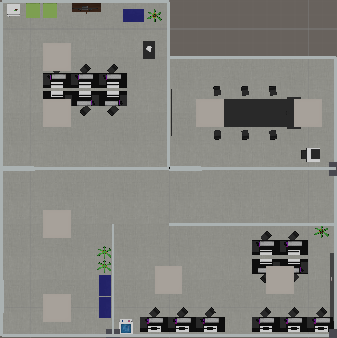
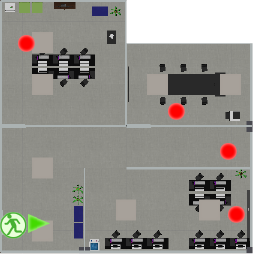
Update minimap preview sprites
~3-3스테이지까지 미니맵 프리뷰 교체 -> 부상자, 출구 위치 표시된 것으로 바꿈

diff --git a/Assets/Scripts/GameManager.cs b/Assets/Scripts/GameManager.cs
@@ -264,6 +264,8 @@ public class GameManager : MonoBehaviour, IObserver
 
         minimapPreview.SetNativeSize();
         RectTransform previewRect = minimapPreview.GetComponent<RectTransform>();
+        previewRect.sizeDelta = new Vector2(previewRect.rect.width * 300 / previewRect.rect.height, 300);
+
         RectTransform frameRect = minimapPreview.transform.GetChild(0).GetComponent<RectTransform>();
         frameRect.sizeDelta = new Vector2 (previewRect.rect.width + 15, previewRect.rect.height + 20);
 
